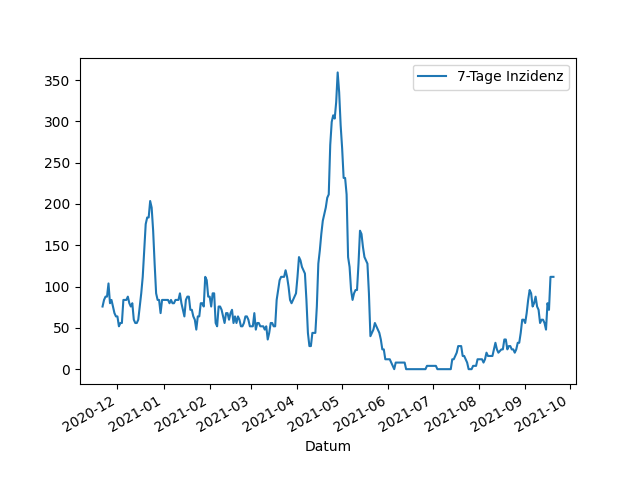
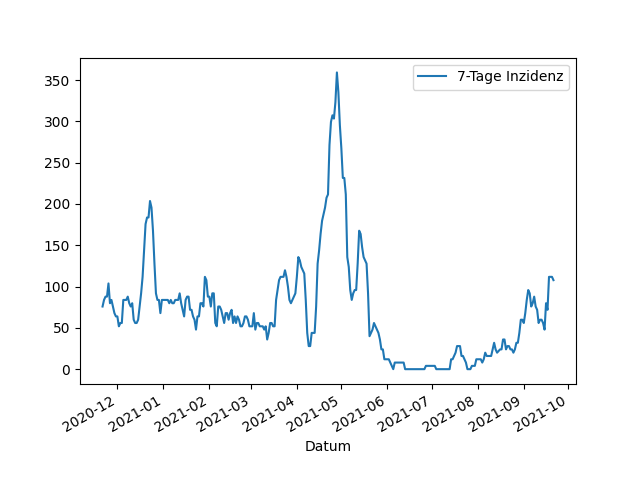
Update images

diff --git a/_includes/aktuelle_inzidenz.md b/_includes/aktuelle_inzidenz.md
@@ -1,1 +1,1 @@
-111,8
+107,8
